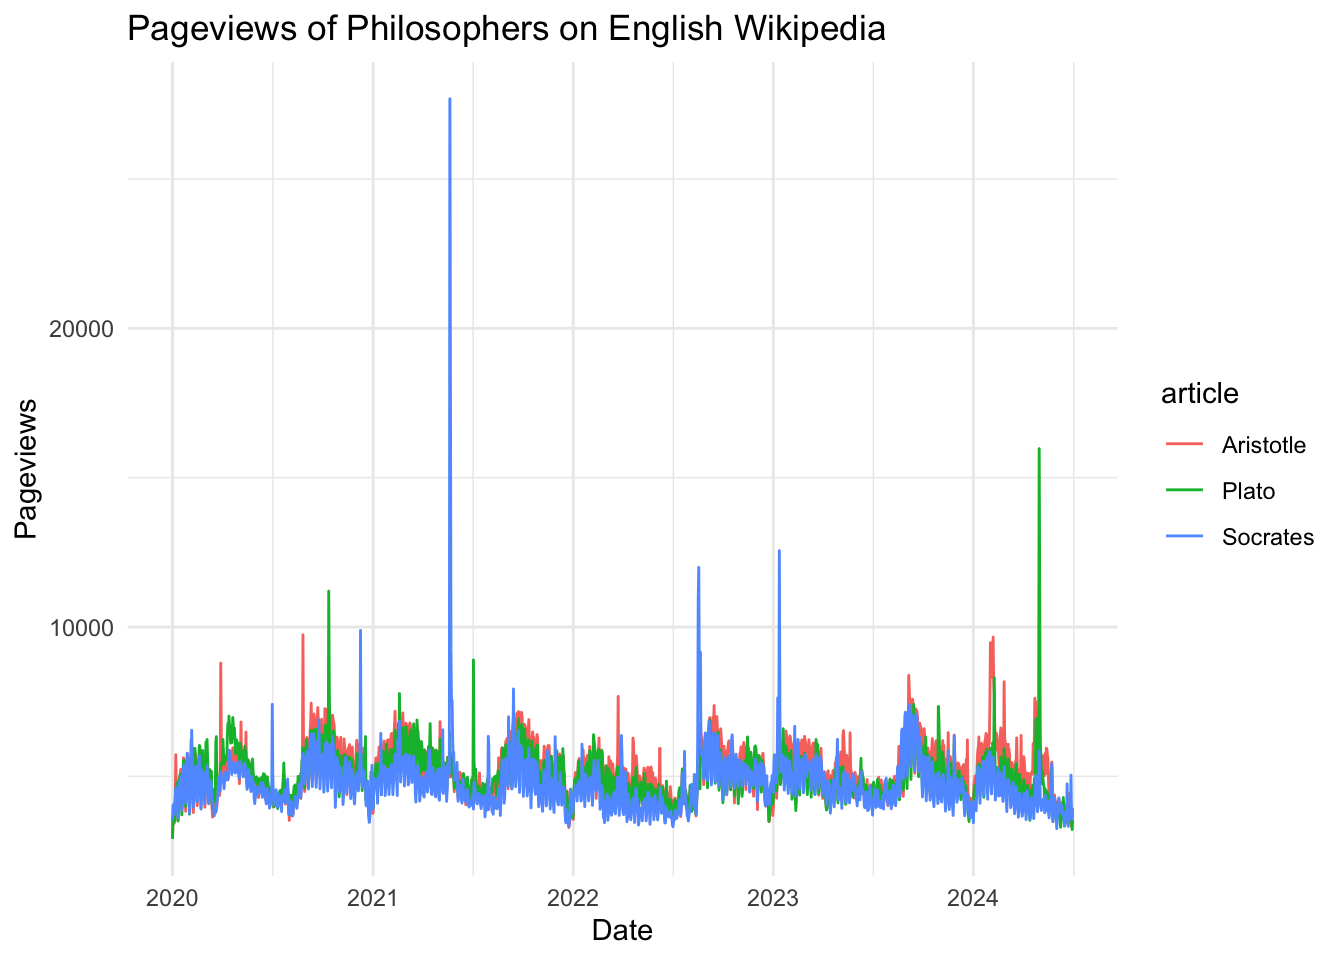
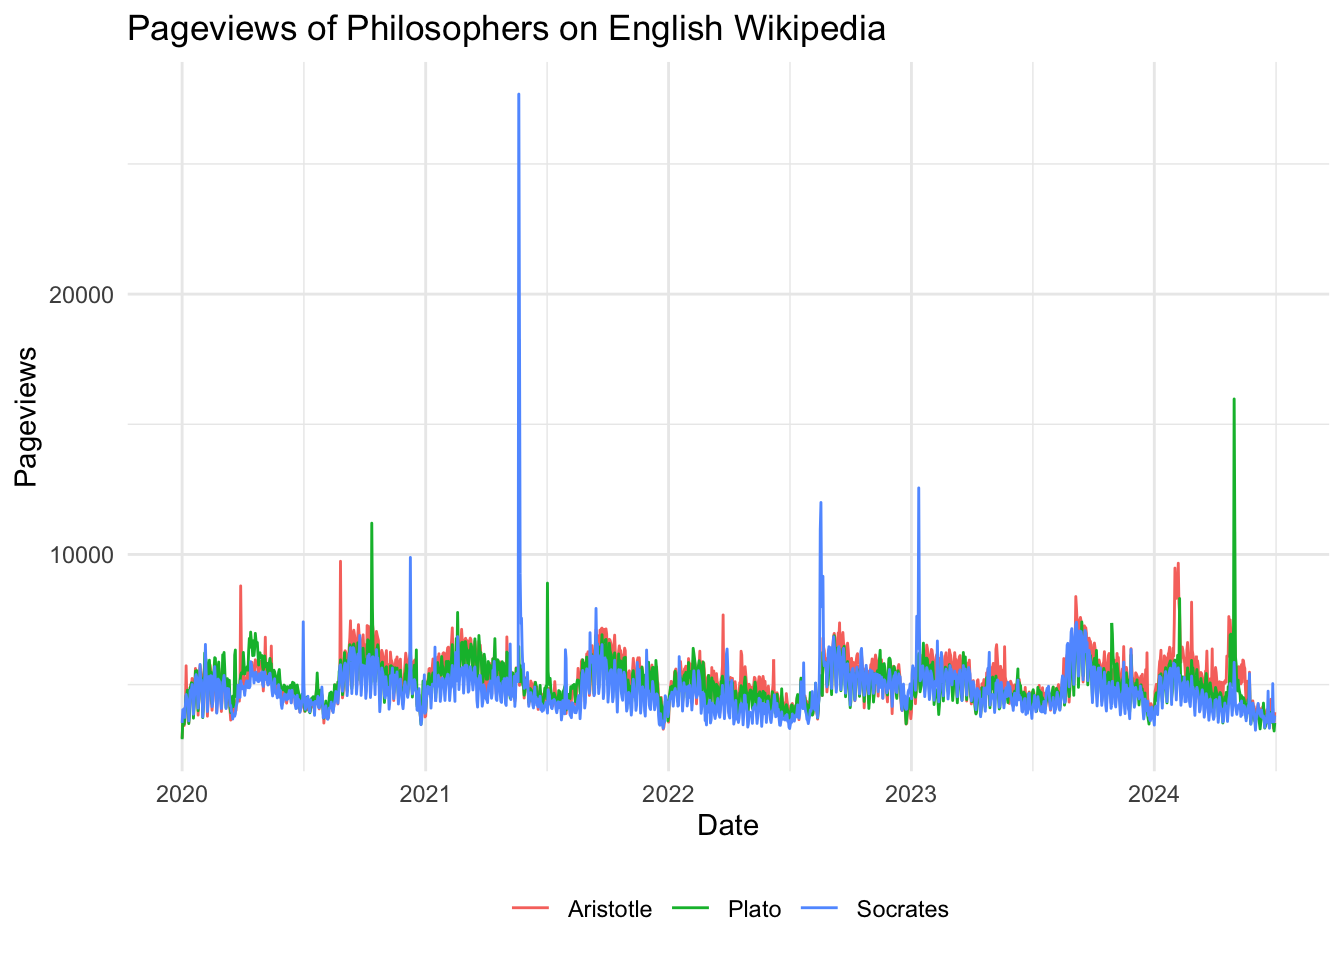
Updated wiki article

diff --git a/docs/data_science/ds/wikipedia_data/index.html b/docs/data_science/ds/wikipedia_data/index.html
@@ -218,6 +218,32 @@ Note
 <p><strong>What is an API?</strong><br> A web API (Application Programming Interface) is a set of rules and protocols that allows different software applications to communicate with each other over the internet. A popular form of a web API for data scientists is one that allows applications to access data stored in a database or other data source over the internet. It provides endpoints through which users can send requests to retrieve certain data. For example, a weather data API lets applications request current weather information and forecasts from a weather service’s database.</p>
 </div>
 </div>
+<div class="callout callout-style-default callout-note callout-titled">
+<div class="callout-header d-flex align-content-center">
+<div class="callout-icon-container">
+<i class="callout-icon"></i>
+</div>
+<div class="callout-title-container flex-fill">
+Note
+</div>
+</div>
+<div class="callout-body-container callout-body">
+<p><strong>Everyday data science ethics: Is data collection from APIs a good thing?</strong><br> Using web data APIs is generally considered better from a data ethics perspective compared to crawling or scraping data from the web for several reasons:</p>
+<ol type="1">
+<li>
+<strong>Consent and Permission:</strong> APIs are like an open invitation. When you use them, you’re playing by the data provider’s rules and getting the data with their blessing.</li>
+<li>
+<strong>Data Accuracy and Integrity:</strong> APIs give you clean, structured data, which means fewer mistakes and more reliable info. No need to worry about messy data or errors creeping in.</li>
+<li>
+<strong>Respect for Resources:</strong> Scraping can hammer a website’s server and mess things up for other users. APIs are built for automated access and can handle your requests without causing a fuss.</li>
+<li>
+<strong>Privacy and Security:</strong> APIs often require you to log in and prove you have permission to access the data. This keeps private info secure and makes sure only the right people see it.</li>
+<li>
+<strong>Legal Compliance:</strong> Using APIs makes it more likely that you are on the right side of the law. You’re following the provider’s terms of service, so you’re less likely to run into legal trouble for things like copyright issues or unauthorized data use.</li>
+</ol>
+<p>All that being said, using an API does not automatically make your data collection ethical. You still need to consider the data provider’s terms of service, privacy policies, and any other ethical considerations that apply to the data you’re collecting.</p>
+</div>
+</div>
 </section><section id="gathering-wikipedia-pageviews-to-measure-public-attention" class="level1"><h1>Gathering Wikipedia Pageviews to measure public attention</h1>
 <hr>
 <p>The code chunks below demonstrates how to collect and graphically display pageviews data using the Wikimedia Analytic API. Usually, in order to access data from an API, the user has to engage with the <a href="https://doc.wikimedia.org/generated-data-platform/aqs/analytics-api/">documentation</a> to figure out how the endpoints work, under which condition and how the data can be used, etc. In our case, interaction with the API using the R software has been made straightforward with a dedicated R client. That client is provided via the <a href="https://cran.r-project.org/web//packages/pageviews/index.html">pageviews package</a>.</p>
@@ -271,7 +297,8 @@ Note
 <span>  <span class="fu">labs</span><span class="op">(</span>title <span class="op">=</span> <span class="st">"Pageviews of Philosophers on English Wikipedia"</span>,</span>
 <span>       x <span class="op">=</span> <span class="st">"Date"</span>,</span>
 <span>       y <span class="op">=</span> <span class="st">"Pageviews"</span><span class="op">)</span> <span class="op">+</span></span>
-<span>  <span class="fu">theme_minimal</span><span class="op">(</span><span class="op">)</span></span></code><button title="Copy to Clipboard" class="code-copy-button"><i class="bi"></i></button></pre></div>
+<span>  <span class="fu">theme_minimal</span><span class="op">(</span><span class="op">)</span> <span class="op">+</span> </span>
+<span>  <span class="fu">theme</span><span class="op">(</span>legend.position <span class="op">=</span> <span class="st">"bottom"</span>, legend.title <span class="op">=</span> <span class="fu">element_blank</span><span class="op">(</span><span class="op">)</span><span class="op">)</span></span></code><button title="Copy to Clipboard" class="code-copy-button"><i class="bi"></i></button></pre></div>
 <div class="cell-output-display">
 <div>
 <figure class="figure"><p><img src="index_files/figure-html/unnamed-chunk-4-1.png" class="img-fluid figure-img" width="672"></p>
@@ -283,8 +310,19 @@ Note
 </section><section id="conclusion" class="level1"><h1>Conclusion</h1>
 <hr>
 <p>Collecting and analyzing Wikipedia data is straightforward and completely free. This allows researchers to utilize and examine a vast amount of data, providing valuable insights to human knowledge production and consumption. Social science research is increasingly incorporating these advancements, as seen in recent studies (e.g., <a href="https://doi.org/10.1177/0894439317703579">Göbel and Munzert 2018</a>; <a href="https://doi.org/10.1038/s41562-019-0541-6">Shi et al.&nbsp;2019</a>).</p>
-<p>However, using Wikipedia data comes with limitations and challenges. Since entries can be read and edited by both humans and machines, the accuracy of content and validity of metadata are not guaranteed. Researchers should also consider that Wikipedia data relies heavily on user-driven content creation, editing, and usage. This reliance can lead to systematic selection bias and issues with data equivalence (e.g., articles on historical political figures may receive fewer views and edits than those on active politicians, for reasons unrelated to their actual significance).</p>
-<p>These caveats are not unique to Wikipedia data; they highlight the general necessity of thoroughly scrutinizing and critically assessing the suitability of any data for addressing substantive research questions.</p>
+<div class="callout callout-style-default callout-note callout-titled">
+<div class="callout-header d-flex align-content-center">
+<div class="callout-icon-container">
+<i class="callout-icon"></i>
+</div>
+<div class="callout-title-container flex-fill">
+Note
+</div>
+</div>
+<div class="callout-body-container callout-body">
+<p><strong>Everyday data science ethics: Is it OK to work with Wikipedia data?</strong><br> When using data from Wikipedia, it is important to consider the ethical implications of data collection and analysis. Wikipedia is a collaborative platform that relies on the voluntary contributions of its users. As such, it is essential to respect the terms of use and licensing agreements when using Wikipedia data for research purposes. Researchers should also be mindful of the potential biases and inaccuracies that may be present in Wikipedia data. Since entries can be read and edited by both humans and machines, the accuracy of content and validity of metadata are not guaranteed. Researchers should also consider that Wikipedia data relies heavily on user-driven content creation, editing, and usage. This reliance can lead to systematic selection bias and issues with data equivalence (e.g., articles on historical political figures may receive fewer views and edits than those on active politicians, for reasons unrelated to their actual significance). These caveats are not unique to Wikipedia data; they highlight the general necessity of thoroughly scrutinizing and critically assessing the suitability of any data for addressing substantive research questions.</p>
+</div>
+</div>
 <p>&nbsp;</p>
 </section><section id="references" class="level1"><h1>References</h1>
 <hr>

diff --git a/docs/data_science/data_science.html b/docs/data_science/data_science.html
@@ -292,7 +292,7 @@ document.addEventListener('DOMContentLoaded', function () {
     </div>
 </div>
 <div class="list quarto-listing-default">
-<div class="quarto-post image-right" data-index="0" data-categories="Beginner,APIs,Data collection" data-listing-date-sort="1722204000000" data-listing-file-modified-sort="1722260710991" data-listing-date-modified-sort="NaN" data-listing-reading-time-sort="4" data-listing-word-count-sort="797">
+<div class="quarto-post image-right" data-index="0" data-categories="Beginner,APIs,Data collection" data-listing-date-sort="1722204000000" data-listing-file-modified-sort="1722264976902" data-listing-date-modified-sort="NaN" data-listing-reading-time-sort="6" data-listing-word-count-sort="1119">
 <div class="thumbnail">
 <p><a href="../data_science/ds/wikipedia_data/index.html" class="no-external"></a></p><a href="../data_science/ds/wikipedia_data/index.html" class="no-external">
 <p><img src="../data_science/ds/images/wikipedia-logo.png" class="thumbnail-image"></p>
@@ -326,7 +326,7 @@ Jul 29, 2024
 Simon Munzert
 </div>
 <div class="listing-reading-time">
-4 min
+6 min
 </div>
 </a>
 </div>
